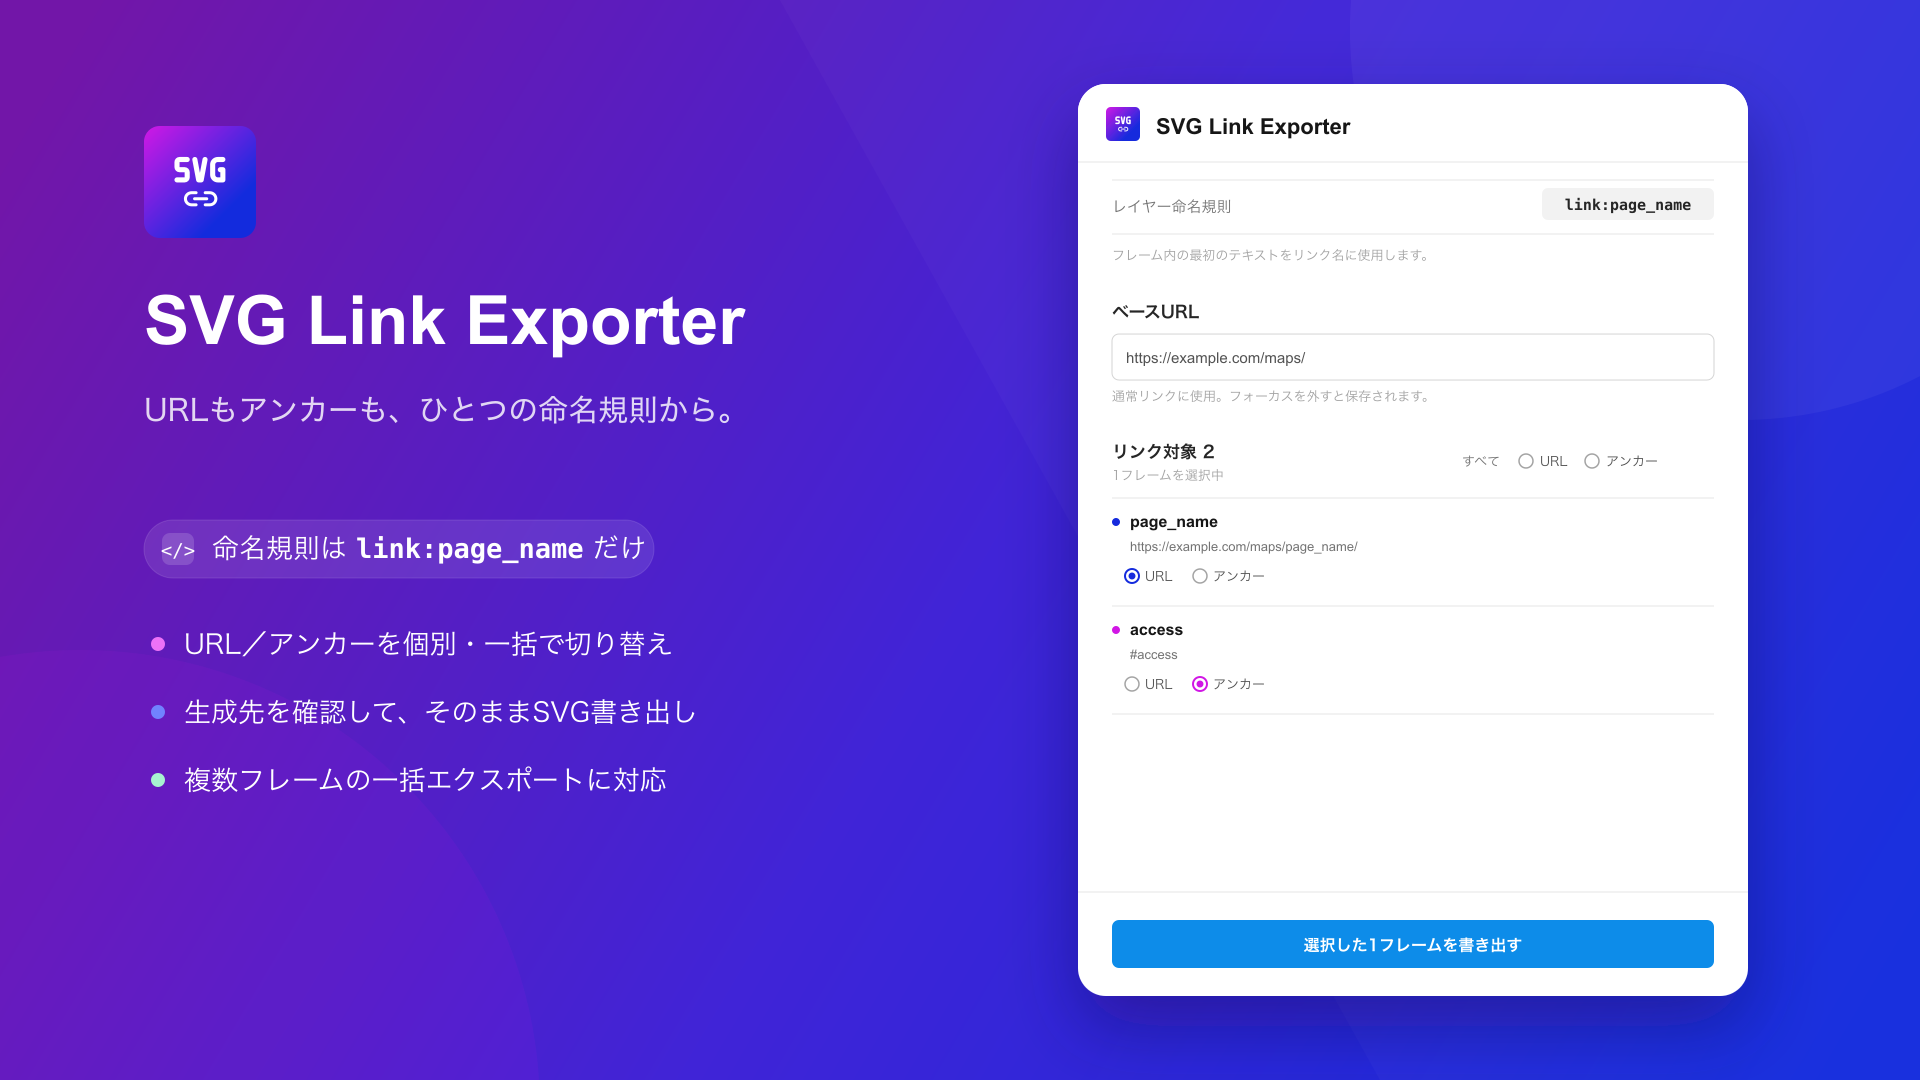
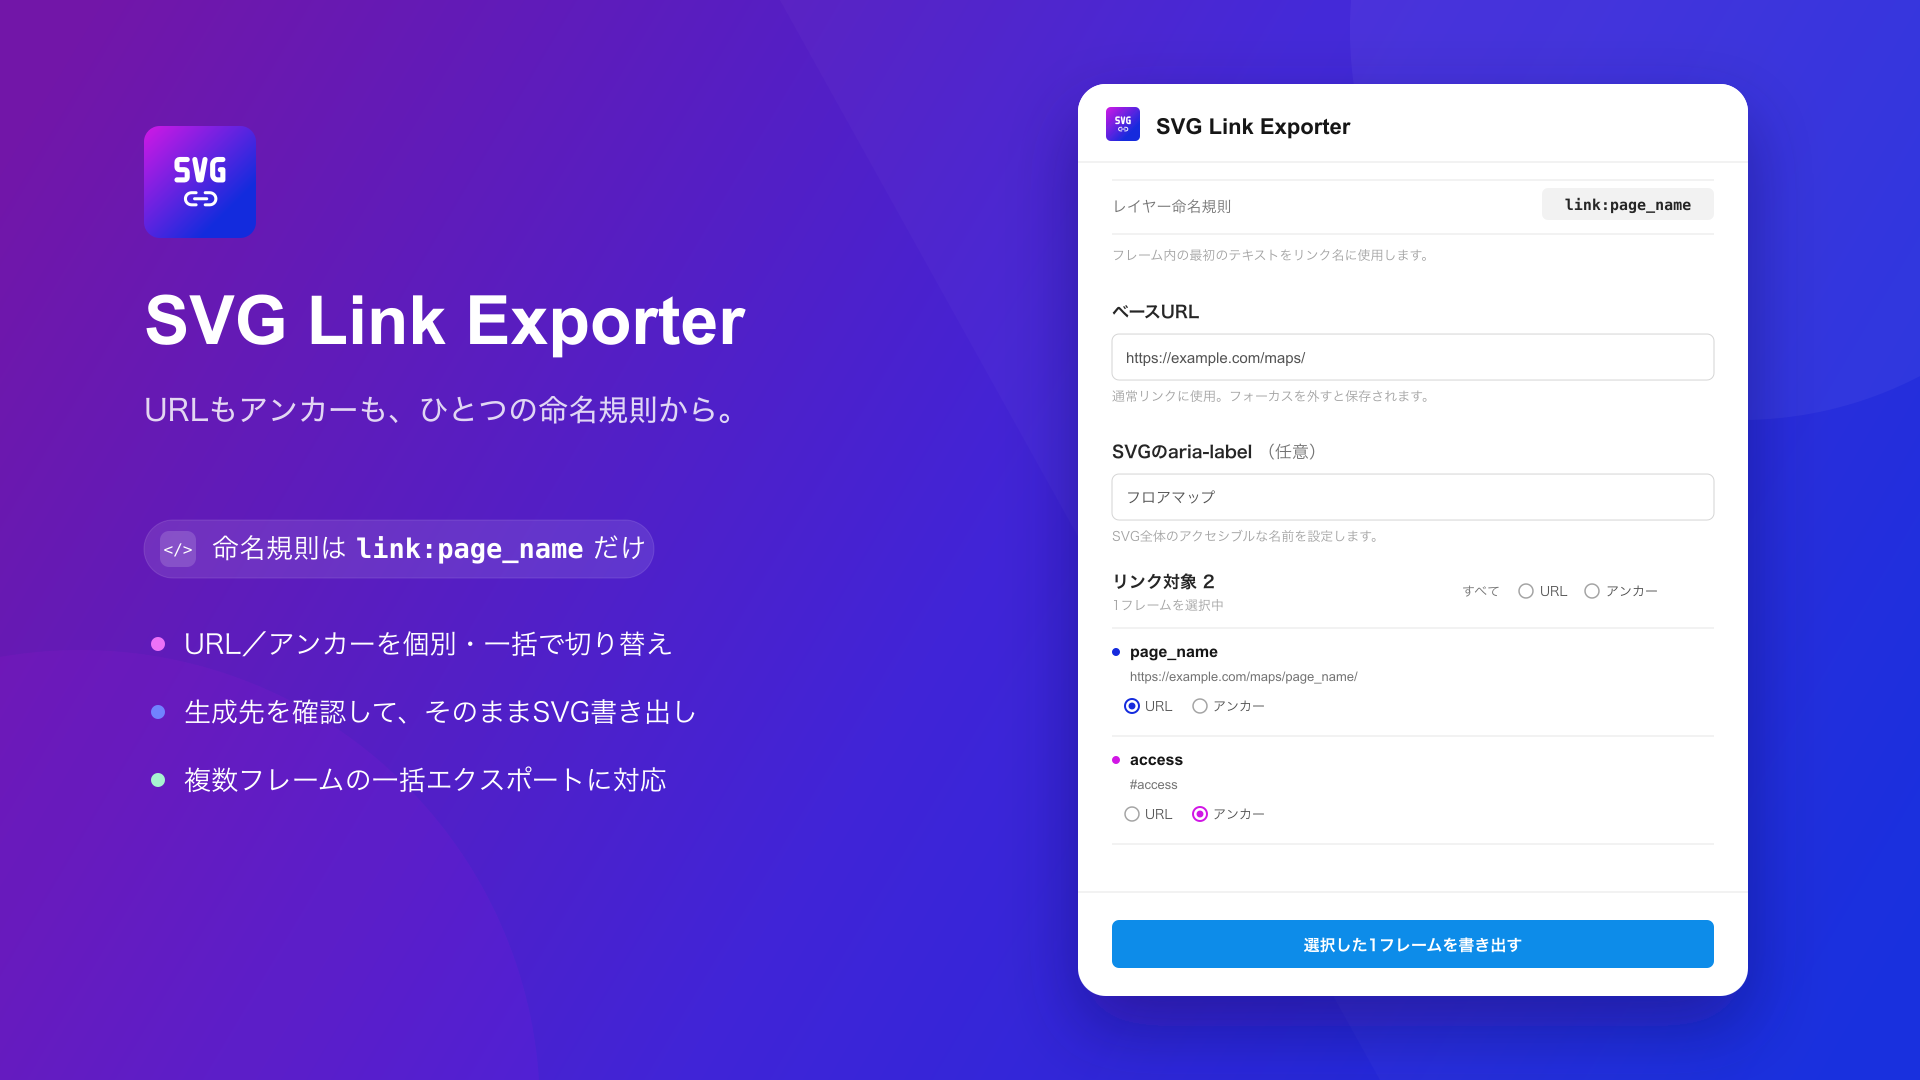
feat: add SVG aria-label support and enhance UI accessibility

Changed region(s): [[0.5625, 0.3972, 0.7188, 0.6417], [0.625, 0.7333, 0.6562, 0.7639], [0.5938, 0.7028, 0.625, 0.7333]]

diff --git a/svg-link-exporter/ui.html b/svg-link-exporter/ui.html
@@ -17,6 +17,7 @@
       }
     }
     * { box-sizing: border-box; }
+    .visually-hidden { position: absolute; width: 1px; height: 1px; padding: 0; margin: -1px; overflow: hidden; clip: rect(0 0 0 0); white-space: nowrap; border: 0; }
     html, body { height: 100%; }
     body { display: flex; flex-direction: column; margin: 0; color: var(--figma-color-text); background: var(--figma-color-bg); }
     main { flex: 1; min-height: 0; padding: 16px; overflow-y: auto; }
@@ -44,8 +45,8 @@
     .bulk-options { display: flex; align-items: center; gap: 12px; }
     .bulk-options > span { color: var(--figma-color-text-secondary); font-size: 11px; }
     .empty { color: var(--figma-color-text-secondary); text-align: center; }
-    #base-url { width: 100%; height: 32px; padding: 0 8px; border: 1px solid var(--figma-color-border); border-radius: 4px; color: var(--figma-color-text); background: var(--figma-color-bg); }
-    #base-url:focus { outline: 2px solid var(--figma-color-border-selected); outline-offset: -1px; }
+    .text-input { width: 100%; height: 32px; padding: 0 8px; border: 1px solid var(--figma-color-border); border-radius: 4px; color: var(--figma-color-text); background: var(--figma-color-bg); }
+    .text-input:focus { outline: 2px solid var(--figma-color-border-selected); outline-offset: -1px; }
     .naming-rule { display: flex; align-items: center; justify-content: space-between; gap: 12px; padding: 8px 0; border-top: 1px solid var(--figma-color-border); border-bottom: 1px solid var(--figma-color-border); }
     code { padding: 2px 4px; border-radius: 3px; color: var(--figma-color-text); background: var(--figma-color-bg-secondary); font: 11px/16px Roboto Mono, monospace; }
     footer { flex: none; padding: 12px 16px 16px; border-top: 1px solid var(--figma-color-border); background: var(--figma-color-bg); }
@@ -56,6 +57,7 @@
   </style>
 </head>
 <body>
+  <h1 class="visually-hidden">SVG Link Exporter</h1>
   <main>
     <section>
       <div class="naming-rule">
@@ -66,8 +68,13 @@
     </section>
     <section>
       <div class="section-heading"><label class="label" for="base-url">ベースURL</label></div>
-      <input id="base-url" type="url" placeholder="https://example.com/maps/">
+      <input id="base-url" class="text-input" type="url" placeholder="https://example.com/maps/">
       <p class="helper">通常リンクに使用。フォーカスを外すと保存されます。</p>
+    </section>
+    <section>
+      <div class="section-heading"><label class="label" for="svg-label">SVGのaria-label <span class="meta">（任意）</span></label></div>
+      <input id="svg-label" class="text-input" type="text" placeholder="例: フロアマップ" disabled>
+      <p class="helper">選択中のフレームに、SVG全体のアクセシブルな名前を設定します。</p>
     </section>
     <section>
       <div class="section-heading">
@@ -97,6 +104,7 @@
     const links = document.getElementById('links');
     const bulkOptions = document.getElementById('bulk-options');
     const baseUrl = document.getElementById('base-url');
+    const svgLabel = document.getElementById('svg-label');
     const exportButton = document.getElementById('export');
     const status = document.getElementById('status');
 
@@ -104,6 +112,9 @@
     let currentLinks = [];
     let savedBaseUrl = '';
     let canExport = false;
+    let currentSelectionIds = [];
+    let savedSvgLabel = null;
+    let isComposingSvgLabel = false;
 
     bulkOptions.onchange = (event) => {
       if (event.target.name !== 'bulk-kind') return;
@@ -123,6 +134,22 @@
     baseUrl.onkeydown = (event) => {
       if (event.key === 'Enter') baseUrl.blur();
     };
+    const saveSvgLabel = () => {
+      if (currentSelectionIds.length && svgLabel.value.trim() !== savedSvgLabel) {
+        post({ type: 'set-svg-label', nodeIds: currentSelectionIds, label: svgLabel.value });
+      }
+    };
+    svgLabel.onblur = saveSvgLabel;
+    svgLabel.oncompositionstart = () => { isComposingSvgLabel = true; };
+    svgLabel.oncompositionend = () => { isComposingSvgLabel = false; };
+    svgLabel.onkeydown = (event) => {
+      if (
+        event.key === 'Enter'
+        && !event.isComposing
+        && event.keyCode !== 229
+        && !isComposingSvgLabel
+      ) svgLabel.blur();
+    };
     exportButton.onclick = () => {
       exportButton.disabled = true;
       status.textContent = 'SVGを生成しています…';
@@ -135,8 +162,17 @@
 
       if (message.type === 'selection-state') {
         currentLinks = message.links;
+        currentSelectionIds = message.svgLabels.map((item) => item.nodeId);
         savedBaseUrl = message.baseUrl;
         if (document.activeElement !== baseUrl) baseUrl.value = message.baseUrl;
+        const labels = [...new Set(message.svgLabels.map((item) => item.label))];
+        const hasCommonLabel = labels.length === 1;
+        savedSvgLabel = hasCommonLabel ? labels[0] : null;
+        if (document.activeElement !== svgLabel && !isComposingSvgLabel) {
+          svgLabel.value = savedSvgLabel ?? '';
+        }
+        svgLabel.disabled = message.count === 0;
+        svgLabel.placeholder = labels.length > 1 ? '複数の値' : '例: フロアマップ';
         linkCount.textContent = `リンク対象 ${message.links.length}`;
         selection.textContent = message.count
           ? `${message.count}フレームを選択中`

diff --git a/svg-link-exporter/code.ts b/svg-link-exporter/code.ts
@@ -1,11 +1,13 @@
 const BASE_URL_KEY = 'svg-link-base-url';
 const LINK_KIND_KEY = 'svg-link-kind';
+const SVG_LABEL_KEY = 'svg-aria-label';
 let savedBaseUrl = '';
 
 type PluginMessage =
   | { type: 'set-base-url'; url: string }
   | { type: 'set-link-kind'; nodeId: string; kind: LinkKind }
   | { type: 'set-all-link-kinds'; nodeIds: string[]; kind: LinkKind }
+  | { type: 'set-svg-label'; nodeIds: string[]; label: string }
   | { type: 'export-svg' }
   | { type: 'close' };
 
@@ -59,6 +61,7 @@ function sendSelectionState(): void {
     links,
     baseUrl,
     requiresBaseUrl,
+    svgLabels: selection.map((node) => ({ nodeId: node.id, label: node.getPluginData(SVG_LABEL_KEY) })),
   });
 }
 
@@ -184,6 +187,12 @@ function addLinksToSvg(svg: string, links: LinkRegion[]): string {
   return svg.replace(/<\/svg>\s*$/, `${markup}</svg>`);
 }
 
+function addSvgAccessibility(svg: string, label: string): string {
+  const trimmedLabel = label.trim();
+  if (!trimmedLabel) return svg;
+  return svg.replace(/<svg\b/, `<svg aria-label="${escapeXml(trimmedLabel)}"`);
+}
+
 async function exportSelection(): Promise<void> {
   const selection = selectedNodes();
   let requiresBaseUrl = false;
@@ -212,7 +221,10 @@ async function exportSelection(): Promise<void> {
     });
     files.push({
       name: safeFilename(node.name),
-      content: addLinksToSvg(svg, links),
+      content: addSvgAccessibility(
+        addLinksToSvg(svg, links),
+        node.getPluginData(SVG_LABEL_KEY),
+      ),
       linkCount: links.length,
     });
   }
@@ -243,6 +255,16 @@ figma.ui.onmessage = async (msg: PluginMessage) => {
 
   if (msg.type === 'set-all-link-kinds') {
     await Promise.all(msg.nodeIds.map((nodeId) => setLinkKind(nodeId, msg.kind)));
+    sendSelectionState();
+  }
+
+  if (msg.type === 'set-svg-label') {
+    const label = msg.label.trim();
+    await Promise.all(msg.nodeIds.map(async (nodeId) => {
+      const node = await figma.getNodeByIdAsync(nodeId);
+      if (!node || node.type === 'DOCUMENT' || node.type === 'PAGE') return;
+      node.setPluginData(SVG_LABEL_KEY, label);
+    }));
     sendSelectionState();
   }
 

diff --git a/svg-link-exporter/README.md b/svg-link-exporter/README.md
@@ -13,6 +13,8 @@ Figmaのレイヤー名と任意のベースURLからリンクを生成し、ク
 
 検出された対象は、プラグインUIのラジオボタンから「リンク」と「アンカー」を個別に切り替えられます。検出対象すべての一括切り替えにも対応しています。選択した種別はFigmaファイル内に保存されます。
 
+SVG全体の `aria-label` はプラグインUIからフレームごとに任意設定できます。SVGのネイティブなロールを維持するため、`role` 属性は追加しません。
+
 例えばベースURLを `https://www.example.com/onsen/` に設定した場合、`link:sample_onsen` は次のURLになります。
 
 `https://www.example.com/onsen/sample_onsen/`
